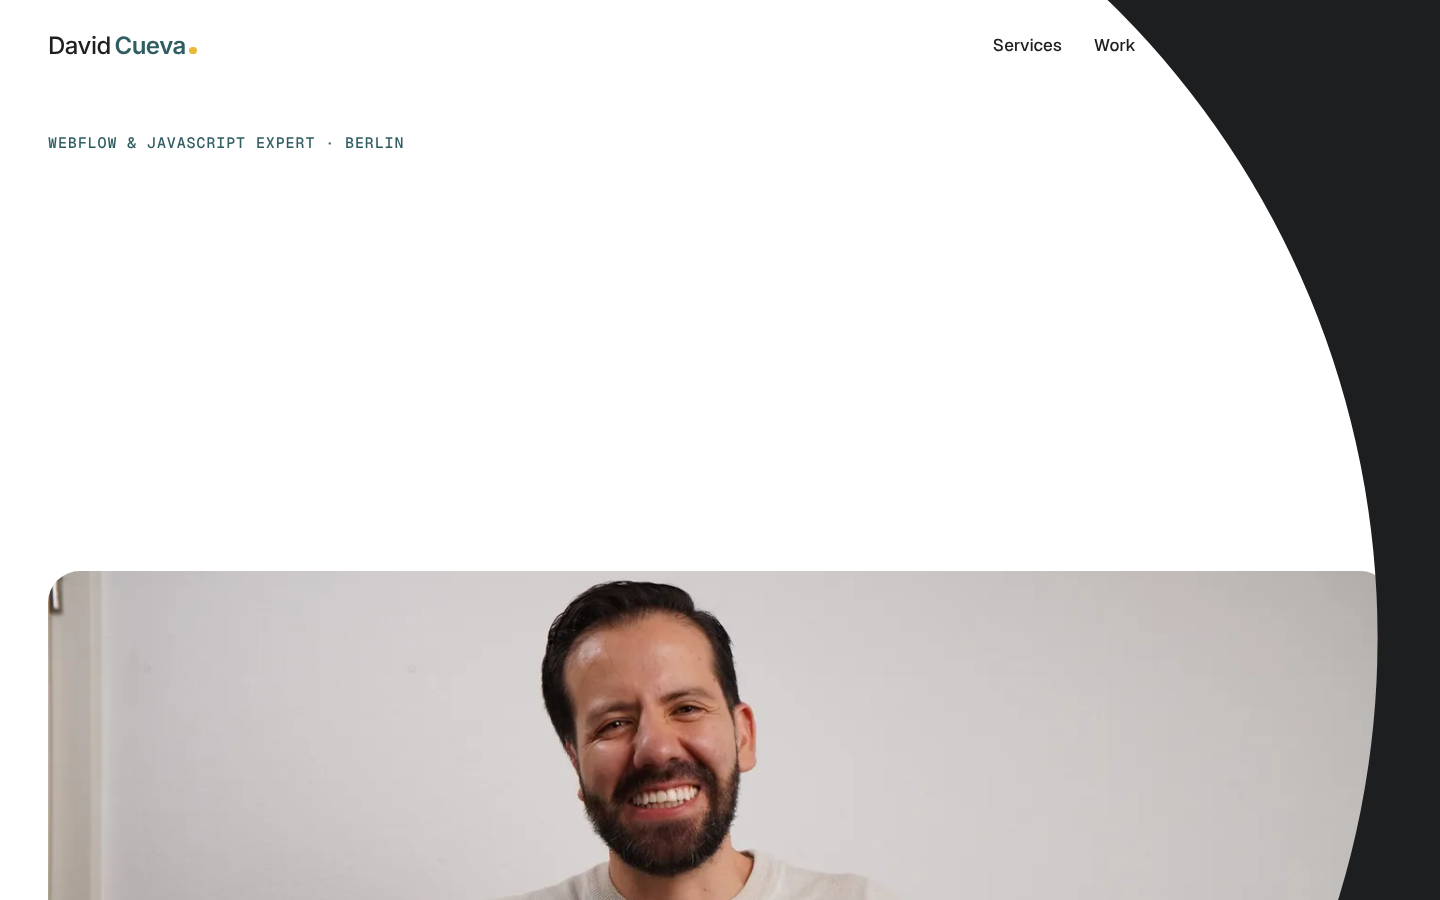
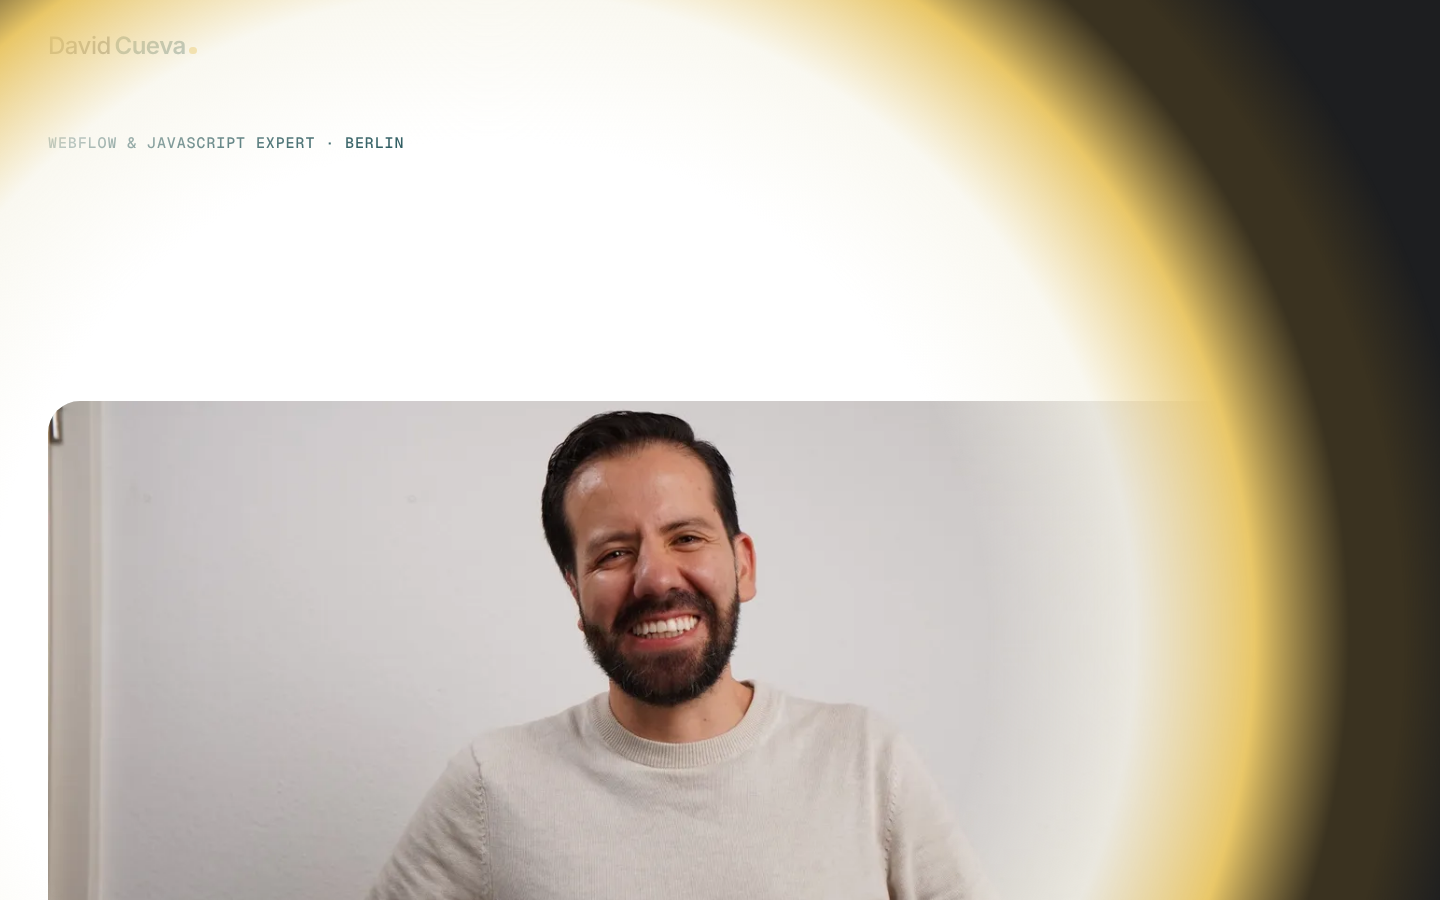
feat: warm golden halo on the intro's light circle
While the circle grows, a decorative #intro-glow layer (aria-hidden,
pointer-events none, fixed and overflow-hidden) holds a radial-gradient
disc, cream -> gold -> dark-warm, that scales with the same duration and
easing as the clip-path hole so the solid dark-warm band always covers
the hole's edge. It fades out over the last part of the grow and is
removed in finish(), so the backup timer path also clears it.

Adds --glow-dark and --glow-gold tokens, two intro tests, and freezes
the halo animation too in review-shots.

Claude-Session: https://claude.ai/code/session_018prHFQZQJKHAoXgYLZUusw

diff --git a/src/scripts/intro.ts b/src/scripts/intro.ts
@@ -42,6 +42,35 @@ function circle(w: number, h: number, cx: number, cy: number, r: number): string
   return `path(evenodd, "M0 0H${w}V${h}H0Z M${cx - r} ${cy}a${r} ${r} 0 1 0 ${2 * r} 0a${r} ${r} 0 1 0 ${-2 * r} 0Z")`;
 }
 
+/** Hole edge as a share of the halo's radius: the halo reaches 12 % past the edge. */
+const GLOW_SPILL = 1.12;
+
+/**
+ * Decorative warm band (styled in Intro.astro) that grows with the same timing as
+ * the clip-path hole, so it stays on the hole's edge, and fades out at the end.
+ */
+function halo(cx: number, cy: number, r: number, duration: number, easing: string): HTMLElement {
+  const wrap = document.createElement('div');
+  wrap.id = 'intro-glow';
+  wrap.setAttribute('aria-hidden', 'true');
+  const disc = document.createElement('span');
+  const size = 2 * r * GLOW_SPILL;
+  disc.style.width = disc.style.height = `${size}px`;
+  disc.style.left = `${cx - size / 2}px`;
+  disc.style.top = `${cy - size / 2}px`;
+  wrap.append(disc);
+  document.body.append(wrap);
+  disc.animate(
+    [
+      { transform: 'scale(0)', opacity: 1 },
+      { opacity: 1, offset: 0.85 },
+      { transform: 'scale(1)', opacity: 0 },
+    ],
+    { duration, easing, fill: 'forwards' },
+  );
+  return wrap;
+}
+
 export function initIntro(opts: { autoMs?: number; growMs?: number } = {}): void {
   const { autoMs = 4000, growMs = 900 } = opts;
   const root = document.documentElement;
@@ -66,6 +95,7 @@ export function initIntro(opts: { autoMs?: number; growMs?: number } = {}): void
     el.setAttribute(INERT, '');
   }
 
+  let glow: HTMLElement | null = null;
   let fired = false;
   let finished = false;
   let timer = 0;
@@ -88,6 +118,8 @@ export function initIntro(opts: { autoMs?: number; growMs?: number } = {}): void
     if (finished) return;
     finished = true;
     root.classList.remove('intro', 'intro-lighting');
+    glow?.remove();
+    glow = null;
     for (const el of Array.from(document.querySelectorAll(`[${INERT}]`))) {
       el.removeAttribute('inert');
       el.removeAttribute(INERT);
@@ -122,9 +154,11 @@ export function initIntro(opts: { autoMs?: number; growMs?: number } = {}): void
       finish();
       return;
     }
+    const easing = 'cubic-bezier(0.4, 0, 0.2, 1)';
+    glow = halo(cx, cy, r, growMs, easing);
     const anim = layer!.animate([{ clipPath: circle(w, h, cx, cy, 0) }, { clipPath: circle(w, h, cx, cy, r) }], {
       duration: growMs,
-      easing: 'cubic-bezier(0.4, 0, 0.2, 1)',
+      easing,
       fill: 'forwards',
     });
     const end = () => {

diff --git a/src/styles/tokens.css b/src/styles/tokens.css
@@ -13,4 +13,6 @@
   --gold-text: #8a6a12;
   --cream: #f7f5ea;
   --dark: #1d1e20;
+  --glow-dark: #3a3220;
+  --glow-gold: #e9c768;
 }
